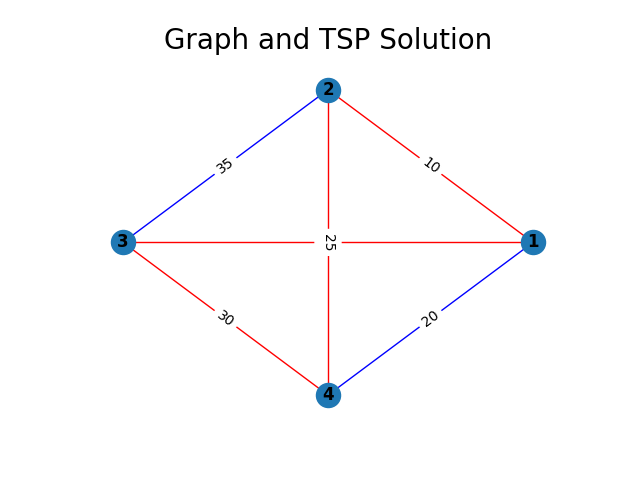
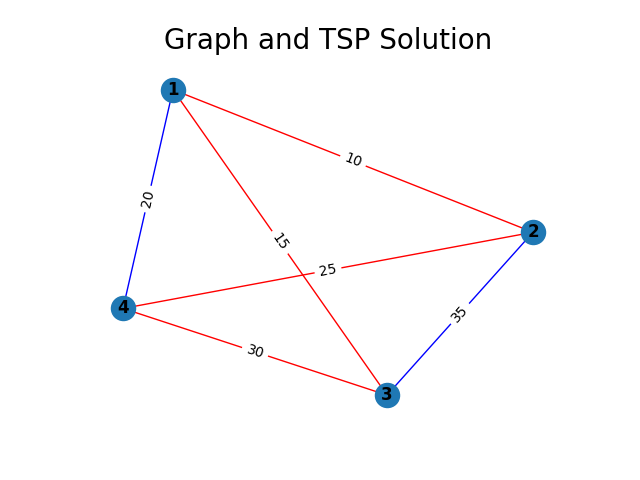
Changed graph-viz to use spring layout.

diff --git a/graph.py b/graph.py
@@ -76,7 +76,7 @@ class UndirectedGraph:
     def plot_graph(self, filename = "images/graph_plot.png"):
         plt.title("Graph", fontsize = 20)
 
-        pos = nx.circular_layout(self._graph)
+        pos = nx.spring_layout(self._graph)
         nx.draw(self._graph, pos = pos, with_labels = True, font_weight = "bold")
 
         labels = nx.get_edge_attributes(self._graph, "weight")
@@ -115,7 +115,7 @@ class UndirectedGraph:
         for i in range(n - 1):
             edge_colors.add((node_path[i], node_path[i + 1]))
 
-        pos = nx.circular_layout(self._graph)
+        pos = nx.spring_layout(self._graph)
         colors = ["r" if (i, j) in edge_colors or (j, i) in edge_colors else "b" for i, j in self.get_edges()]
 
         nx.draw(self._graph, pos = pos, edge_color = colors, with_labels = True, font_weight = "bold")
